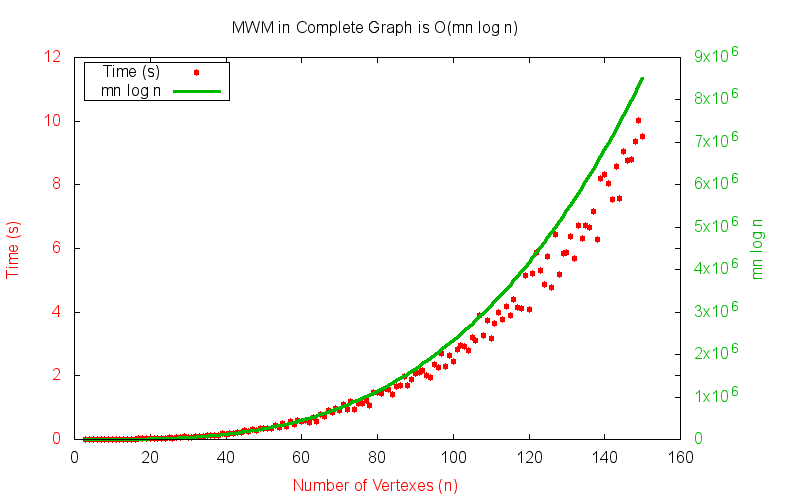
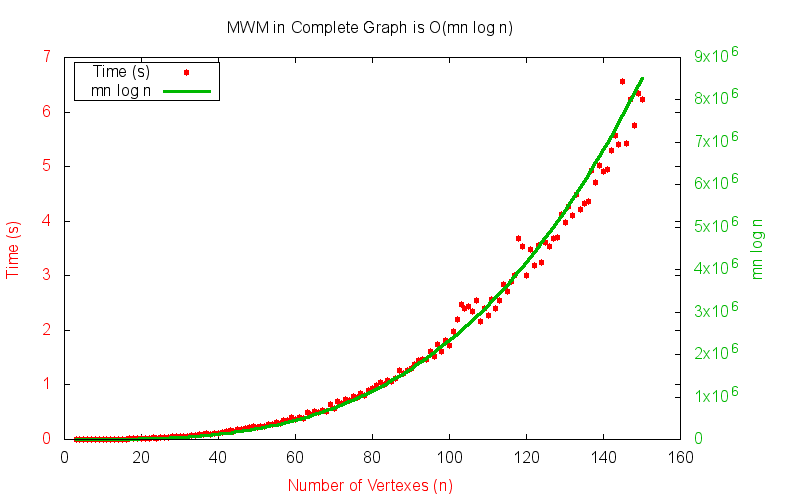
Disable CHECK_DELTA debugging flag

diff --git a/lib/graph_matching/algorithm/mwm_general.rb b/lib/graph_matching/algorithm/mwm_general.rb
@@ -11,8 +11,10 @@ module GraphMatching
     # general graphs.
     class MWMGeneral < MatchingAlgorithm
 
-      # Debugging flag
-      CHECK_DELTA = true
+      # > Check delta2/delta3 computation after every substage;
+      # > only works on integer weights, slows down the algorithm to O(n^4).
+      # > (Van Rantwijk, mwmatching.py, line 34)
+      CHECK_DELTA = false
 
       # If b is a top-level blossom,
       # label[b] is 0 if b is unlabeled (free);
